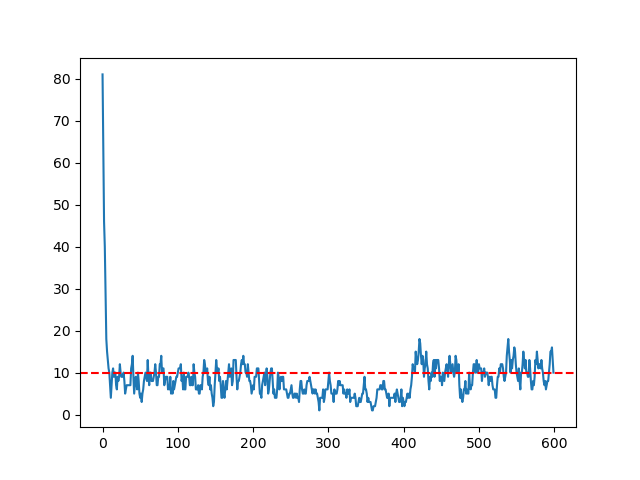
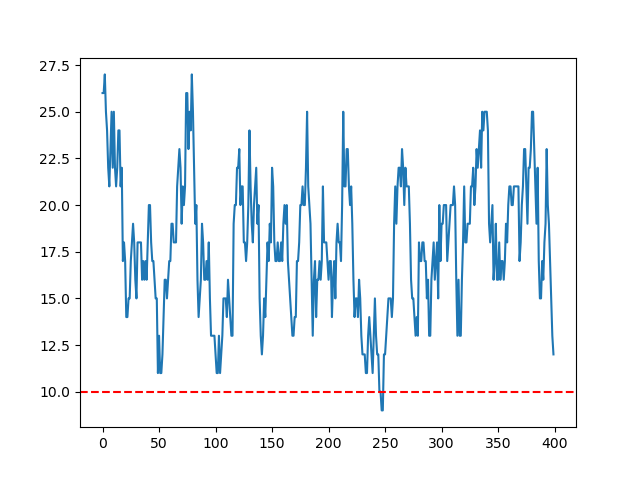
minor

diff --git a/3tier-app/controller/jvm_sys.py b/3tier-app/controller/jvm_sys.py
@@ -9,6 +9,7 @@ import psutil
 import requests as req
 import traceback
 import matplotlib.pyplot as plt
+import socket
 
 try:
     javaCmd = os.environ['JAVA_HOME'] + "/bin/java"
@@ -40,7 +41,7 @@ class jvm_sys(system_interface):
         r.close()
         
         
-        subprocess.Popen([javaCmd, "-Xmx4G",
+        subprocess.Popen([javaCmd, "-Xmx6G",
                          "-Djava.compiler=NONE", "-jar",
                          '%sclient/target/client-0.0.1-SNAPSHOT-jar-with-dependencies.jar' % (self.sysRootPath),
                          '--initPop', '%d' % (pop), '--jedisHost','localhost', '--tier1Host','localhost',
@@ -75,7 +76,7 @@ class jvm_sys(system_interface):
         self.sys.append(self.findProcessIdByName("memcached")[0])
         
         if(not self.isCpu):
-            subprocess.Popen([javaCmd, "-Xmx4G",
+            subprocess.Popen([javaCmd, "-Xmx6G",
                              "-Djava.compiler=NONE", "-jar",
                              '%stier2/target/tier2-0.0.1-SNAPSHOT-jar-with-dependencies.jar' % (self.sysRootPath),
                              '--cpuEmu', '%d' % (cpuEmu), '--jedisHost', 'localhost'])
@@ -85,7 +86,7 @@ class jvm_sys(system_interface):
             self.sys.append(self.findProcessIdByName("tier2-0.0.1")[0])
             
             
-            subprocess.Popen([javaCmd, "-Xmx4G",
+            subprocess.Popen([javaCmd, "-Xmx6G",
                              "-Djava.compiler=NONE", "-jar",
                              '%stier1/target/tier1-0.0.1-SNAPSHOT-jar-with-dependencies.jar' % (self.sysRootPath),
                              '--cpuEmu', "%d" % (cpuEmu), '--jedisHost', 'localhost',
@@ -267,45 +268,103 @@ class jvm_sys(system_interface):
                 print(str_state[i],self.keys[i])
         
         return [astate,estate]
+    
+    def getStateUdp(self):
+        tiers=[3333,13000,13001]
+        sys_state={}
+            
+        # Create a UDP socket at client side
+        UDPClientSocket = socket.socket(family=socket.AF_INET, type=socket.SOCK_DGRAM)
+        
+        for tier in tiers:   
+            # Send to server using created UDP socket            
+            UDPClientSocket.sendto(str.encode("getState"), ("127.0.0.1", tier))
+
+            msgFromServer = UDPClientSocket.recvfrom(1024)
+            states=msgFromServer[0].decode("UTF-8").split("$")
+            for state in states:
+                if(state!=None and state!=''):
+                    key,val=state.split(":")
+                    sys_state[key]=int(val)
+        
+        return sys_state
+    
+    def testSystem(self):
+        self.startSys()
+        r=Client("localhost:11211")
+        try:
+            for k in self.keys:
+                if(k=="think" or k=="t1_hw" or k=="t2_hw"):
+                    continue
+                if(r.get(k) is None):
+                    raise ValueError("test not passed, key %s should be 0 instead is None"%(k))
+                if(r.get(k).decode('UTF-8')!="0"):
+                    raise ValueError("test not passed, key %s should be 0 instead is %s"%(k,r.get(k).decode('UTF-8')))
+            
+            http_req = req.get('http://localhost:3001?entry=e2&snd=test&id=%d'%(np.random.randint(low=0,high=10000000)))
+            
+            for k in self.keys:
+                if(k=="think" or k=="t1_hw" or k=="t2_hw"):
+                    continue
+                if(r.get(k) is None):
+                    raise ValueError("test not passed, key %s should be 0 instead is None"%(k))
+                if(r.get(k).decode('UTF-8')!="0"):
+                    raise ValueError("test not passed, key %s should be 0 instead is %s"%(k,r.get(k).decode('UTF-8')))
+                
+            http_req = req.get('http://localhost:3000?entry=e1&snd=test&id=%d'%(np.random.randint(low=0,high=10000000)))
+            
+            for k in self.keys:
+                if(k=="think" or k=="t1_hw" or k=="t2_hw"):
+                    continue
+                if(r.get(k) is None):
+                    raise ValueError("test not passed, key %s should be 0 instead is None"%(k))
+                if(r.get(k).decode('UTF-8')!="0"):
+                    raise ValueError("test not passed, key %s should be 0 instead is %s"%(k,r.get(k).decode('UTF-8')))
+        except Exception as ex:
+            traceback.print_exception(type(ex), ex, ex.__traceback__)
+            for k in self.keys:
+                if(k=="think" or k=="t1_hw" or k=="t2_hw"):
+                    continue
+                print(k,r.get(k))
+        finally:
+            self.stopSystem()
+            r.close()
         
        
             
 if __name__ == "__main__":
     try:
         isCpu=False
-        jvm_sys = jvm_sys("../",isCpu)
-        
         g=None
+        jvm_sys = jvm_sys("../",isCpu)
         
         for i in range(1):
             jvm_sys.startSys()
-            jvm_sys.startClient(100)
-                
-            mnt = Client("localhost:11211")
+            jvm_sys.startClient(200)
+        
             g = Client("localhost:11211")
-            g.set("t1_hw","3")
-            g.set("t2_hw","1")
+            g.set("t1_hw","20")
+            g.set("t2_hw","10")
+            time.sleep(2)
             X=[]
-            for i in range(600):
-                state=jvm_sys.getstate(mnt)
-                print(state[1],i)
-                X.append(state[0][0])
+            for i in range(400):
+                state=jvm_sys.getStateUdp()
+                print(state)
+                print(np.sum([state["think"],state["e1_bl"],state["e1_ex"],state["e2_bl"],state["e2_ex"]]),i)
+                X.append(state["think"])
                 if(i==200):
-                    g.set("t1_hw","1")
-                if(i==400):
-                    g.set("t1_hw","5")
-                
+                    g.set("t1_hw","20")
+        
                 if(isCpu):
                     jvm_sys.setU(10,"tier1")
                     jvm_sys.setU(10,"tier2")
-                time.sleep(0.3)
-            mnt.close()
-            
+                time.sleep(0.1)
+        
             print(np.mean(X))
-            
+        
             jvm_sys.stopClient()
             jvm_sys.stopSystem()
-            
+        
             plt.figure()
             plt.plot(X)
             plt.axhline(y=10,color='r',linestyle='--')

diff --git a/3tier-app/controller/optCtrlNN_real.py b/3tier-app/controller/optCtrlNN_real.py
@@ -261,8 +261,8 @@ def getstate(r, keys, N):
         gidx = 1;
         for i in range(1, N):
             astate.append(float(str_state[gidx]) + float(str_state[gidx + 1]))
-            if(float(str_state[gidx])<0 or float(str_state[gidx + 1])<0):
-                raise ValueError("Error! state < 0")
+            # if(float(str_state[gidx])<0 or float(str_state[gidx + 1])<0):
+            #     raise ValueError("Error! state < 0")
             gidx += 3
     except:
         print(time.asctime())
@@ -355,7 +355,7 @@ class optCtrlNN3:
         # print(self.tfmodel.get_tensor(output_details[2]['index']).shape)
         
         Bias = self.tfmodel.get_tensor(output_details[2]['index'])
-        Gain = self.tfmodel.get_tensor(output_details[0]['index'])
+        Gain = self.tfmodel.get_tensor(output_details[1]['index'])
 
         # Bias=Ypredicted_N[-1]
         # Gain=Ypredicted_N[1]
@@ -402,7 +402,7 @@ class optCtrlNN3:
             for ui in range(1, P.shape[0]):
                 ru += (uvar_dn[ui] - Sold[ui]) ** 2
         
-        model.minimize(obj + 0.15*ru + 0.25*casadi.sumsqr(uvar_dn[1:3]))
+        model.minimize(obj + 0.5*ru + 0.3*casadi.sumsqr(uvar_dn[1:3]))
         
         optionsIPOPT = {'print_time':False, 'ipopt':{'print_level':0}}
         optionsOSQP = {'print_time':False, 'osqp':{'verbose':False}}
@@ -419,8 +419,8 @@ if __name__ == "__main__":
     #startDockerCmp()
     
     curpath = os.path.realpath(__file__)
-    ctrl = optCtrlNN3("%s/../learnt_model/real_sim_jvm/model_3tier.tflite" % (os.path.dirname(curpath)),
-                     "%s/../learnt_model/real_sim_jvm/open_loop_3tier_H5.mat" % (os.path.dirname(curpath)))
+    ctrl = optCtrlNN3("%s/../learnt_model/gcp_model/model_3tier.tflite" % (os.path.dirname(curpath)),
+                     "%s/../learnt_model/gcp_model/open_loop_3tier_H5.mat" % (os.path.dirname(curpath)))
     
     isAR = True
     isCpu = True

diff --git a/3tier-app/client/src/main/java/app/Main.java b/3tier-app/client/src/main/java/app/Main.java
@@ -34,7 +34,7 @@ public class Main {
 		final SimpleTask[] Sys = Main.genSystem();
 		Main.resetState(Sys[0]);
 		Sys[0].start();
-		Main.startSim(Sys[0]);
+		//Main.startSim(Sys[0]);
 		MemcachedClient memcachedClient = null;
 		while (true) {
 			if (Client.isStarted.get()) {
@@ -69,7 +69,7 @@ public class Main {
 					memcachedClient.set("think", 3600, String.valueOf(0)).get();
 				} else {
 					if (e.endsWith("_sw") || e.endsWith("_hw")) {
-						memcachedClient.set(e, 3600, "110").get();
+						memcachedClient.set(e, 3600, "1").get();
 					} else {
 						memcachedClient.set(e, 3600, "0").get();
 					}
